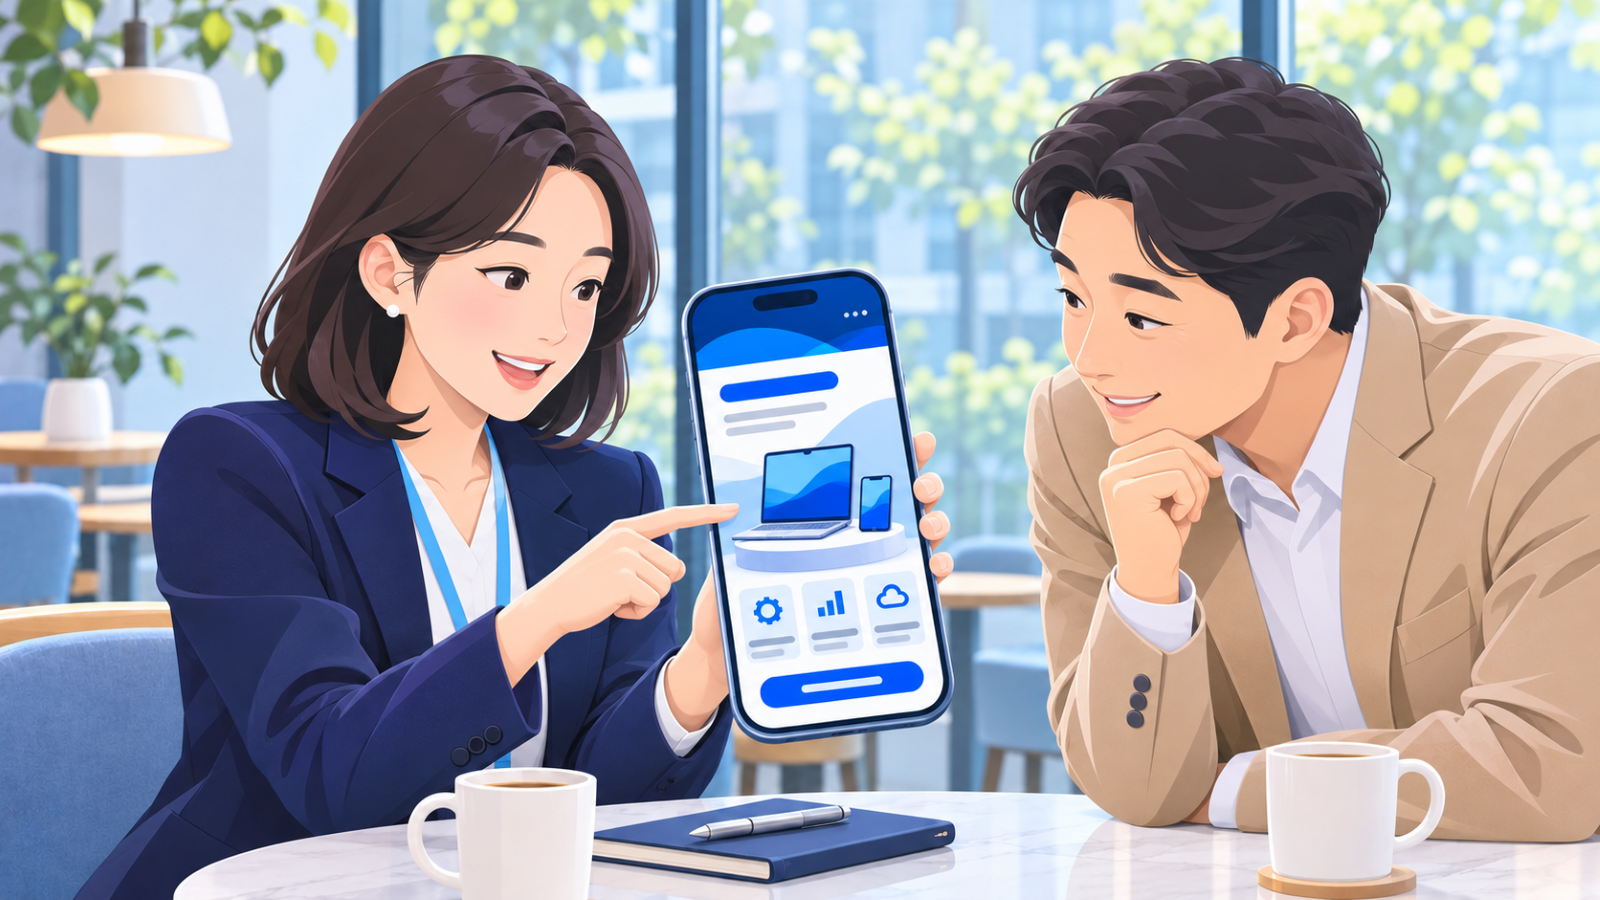
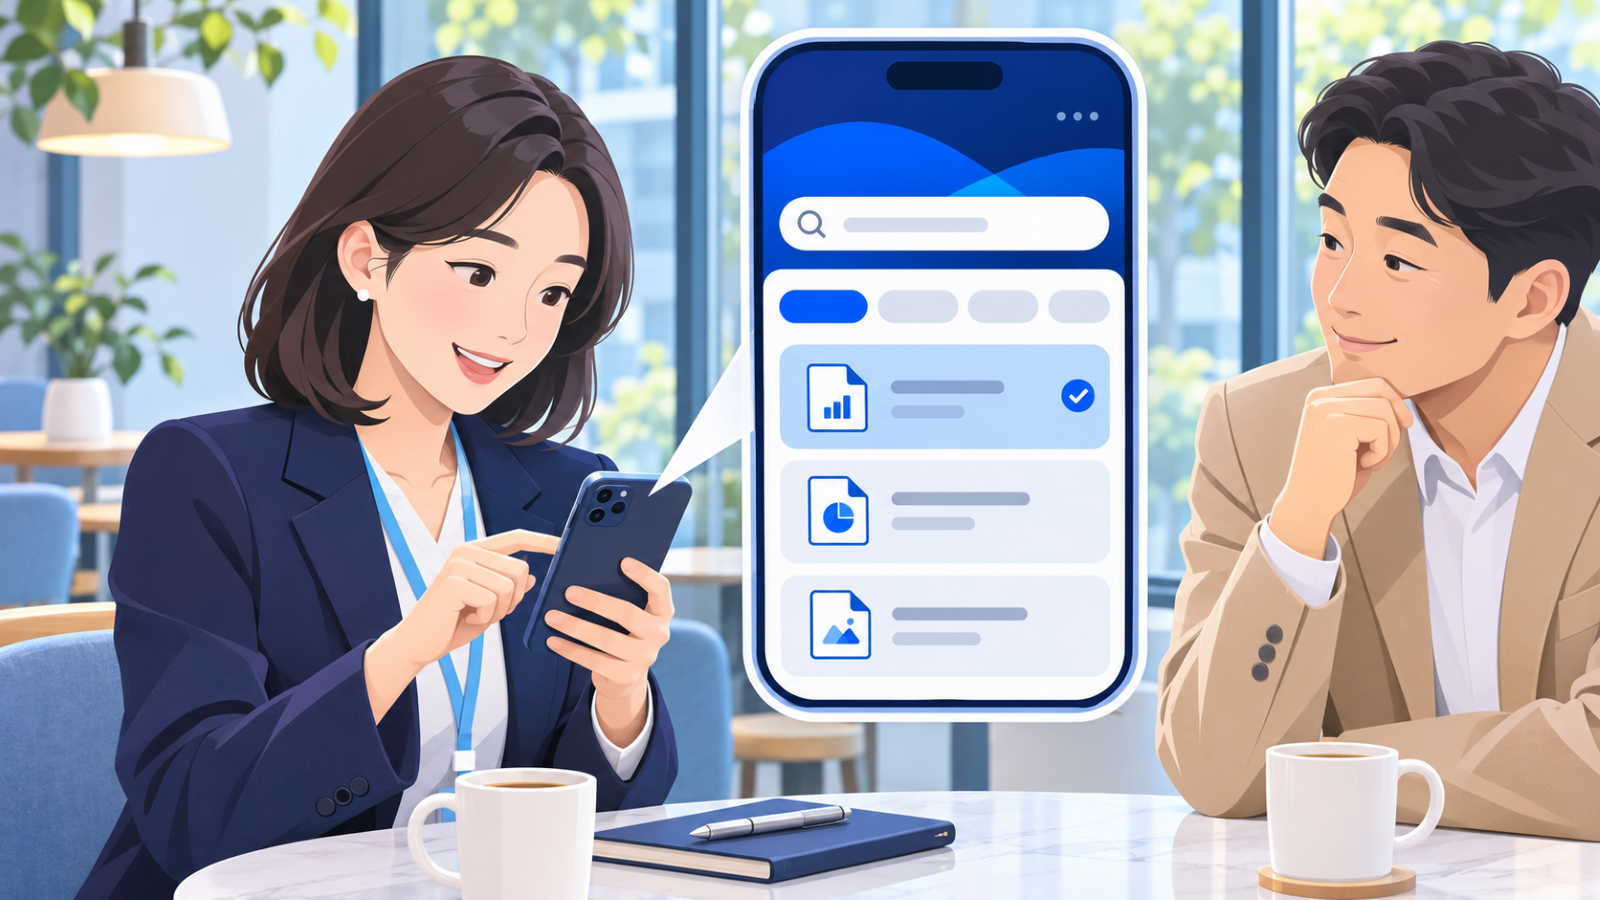
Add the office material search guide step

diff --git a/assets/js/usage-guide.js b/assets/js/usage-guide.js
@@ -4,27 +4,34 @@
   const steps = [
     {
       image: "assets/images/guide/nice-hub-guide-step-01.png",
+      alt: "영업자가 사무실 PC의 NICE HUB에서 흩어져 있던 최신 영업자료를 한 번에 찾아 기뻐하는 모습",
+      title: "분산된 자료, NICE HUB에서 한 번에!",
+      description:
+        "여러 PC 폴더와 저장 위치를 뒤지지 않고 NICE HUB에서 사업·자료 유형별 최신 영업자료를 한 번에 검색하고 확인할 수 있습니다.",
+    },
+    {
+      image: "assets/images/guide/nice-hub-guide-step-02.png",
       alt: "영업자가 고객 미팅 중 스마트폰 NICE HUB에서 필요한 영업자료를 찾는 모습",
       title: "필요한 영업자료, 현장에서도 바로!",
       description:
         "외부 영업 현장에서도 스마트폰으로 NICE HUB에 접속해 브로슈어, 제품소개서, 제안자료 등 필요한 영업자료를 즉시 확인할 수 있습니다.",
     },
     {
-      image: "assets/images/guide/nice-hub-guide-step-02.png",
+      image: "assets/images/guide/nice-hub-guide-step-03.png",
       alt: "영업자가 스마트폰의 제품소개서를 고객에게 보여주며 설명하는 모습",
       title: "출력물 없이 스마트폰으로 간편하게!",
       description:
         "선택한 자료를 스마트폰 화면으로 보여주며 고객에게 제품과 서비스를 설명할 수 있어 무거운 출력물을 따로 준비하지 않아도 됩니다.",
     },
     {
-      image: "assets/images/guide/nice-hub-guide-step-03.png",
+      image: "assets/images/guide/nice-hub-guide-step-04.png",
       alt: "영업자 스마트폰의 자료 QR 코드를 고객이 자신의 스마트폰으로 스캔하는 모습",
       title: "QR코드 하나로 고객에게 바로 공유!",
       description:
         "자료 카드의 QR코드를 고객에게 보여주거나 링크 복사·모바일 공유 기능을 이용해 고객의 스마트폰으로 바로 전달할 수 있습니다.",
     },
     {
-      image: "assets/images/guide/nice-hub-guide-step-04.png",
+      image: "assets/images/guide/nice-hub-guide-step-05.png",
       alt: "고객이 자신의 스마트폰에서 공유받은 제품소개 자료를 직접 확인하는 모습",
       title: "고객도 본인 스마트폰으로 편리하게!",
       description:

diff --git a/index.html b/index.html
@@ -511,7 +511,7 @@
           <div>
             <span class="modal-label">FIELD SALES GUIDE</span>
             <h2 id="usageGuideTitle">NICE HUB, 이렇게 활용하세요!</h2>
-            <p id="usageGuideSubtitle">스마트폰 하나로 자료 확인부터 고객 공유까지!</p>
+            <p id="usageGuideSubtitle">최신 자료 찾기부터 현장 확인과 고객 공유까지!</p>
           </div>
           <button id="closeUsageGuide" class="icon-button" type="button" aria-label="활용 가이드 닫기">
             <span aria-hidden="true">×</span>
@@ -531,10 +531,10 @@
 
             <div class="usage-guide-content">
               <div class="usage-guide-step-row">
-                <span id="usageGuideStep" class="usage-guide-step">STEP 01 / 04</span>
+                <span id="usageGuideStep" class="usage-guide-step">STEP 01 / 05</span>
                 <div id="usageGuideProgress" class="usage-guide-progress" role="group" aria-label="가이드 단계 선택"></div>
               </div>
-              <h3 id="usageGuideStepTitle">필요한 영업자료, 현장에서도 바로!</h3>
+              <h3 id="usageGuideStepTitle">분산된 자료, NICE HUB에서 한 번에!</h3>
               <p id="usageGuideStepDescription"></p>
               <p id="usageGuideSwipeHint" class="usage-guide-swipe-hint">화면을 좌우로 밀어서 단계를 이동할 수 있습니다.</p>
             </div>
@@ -567,7 +567,7 @@
 
         <footer class="usage-guide-footer">
           <button id="usageGuidePrevious" class="button button-secondary" type="button">이전</button>
-          <span id="usageGuideCounter" class="usage-guide-counter" aria-hidden="true">1 / 4</span>
+          <span id="usageGuideCounter" class="usage-guide-counter" aria-hidden="true">1 / 5</span>
           <button id="usageGuideNext" class="button button-primary" type="button">다음</button>
         </footer>
       </section>

diff --git a/sw.js b/sw.js
@@ -1,6 +1,6 @@
 "use strict";
 
-const CACHE_NAME = "nice-hub-shell-v72";
+const CACHE_NAME = "nice-hub-shell-v73";
 const APP_SHELL = [
   "./",
   "./index.html",
